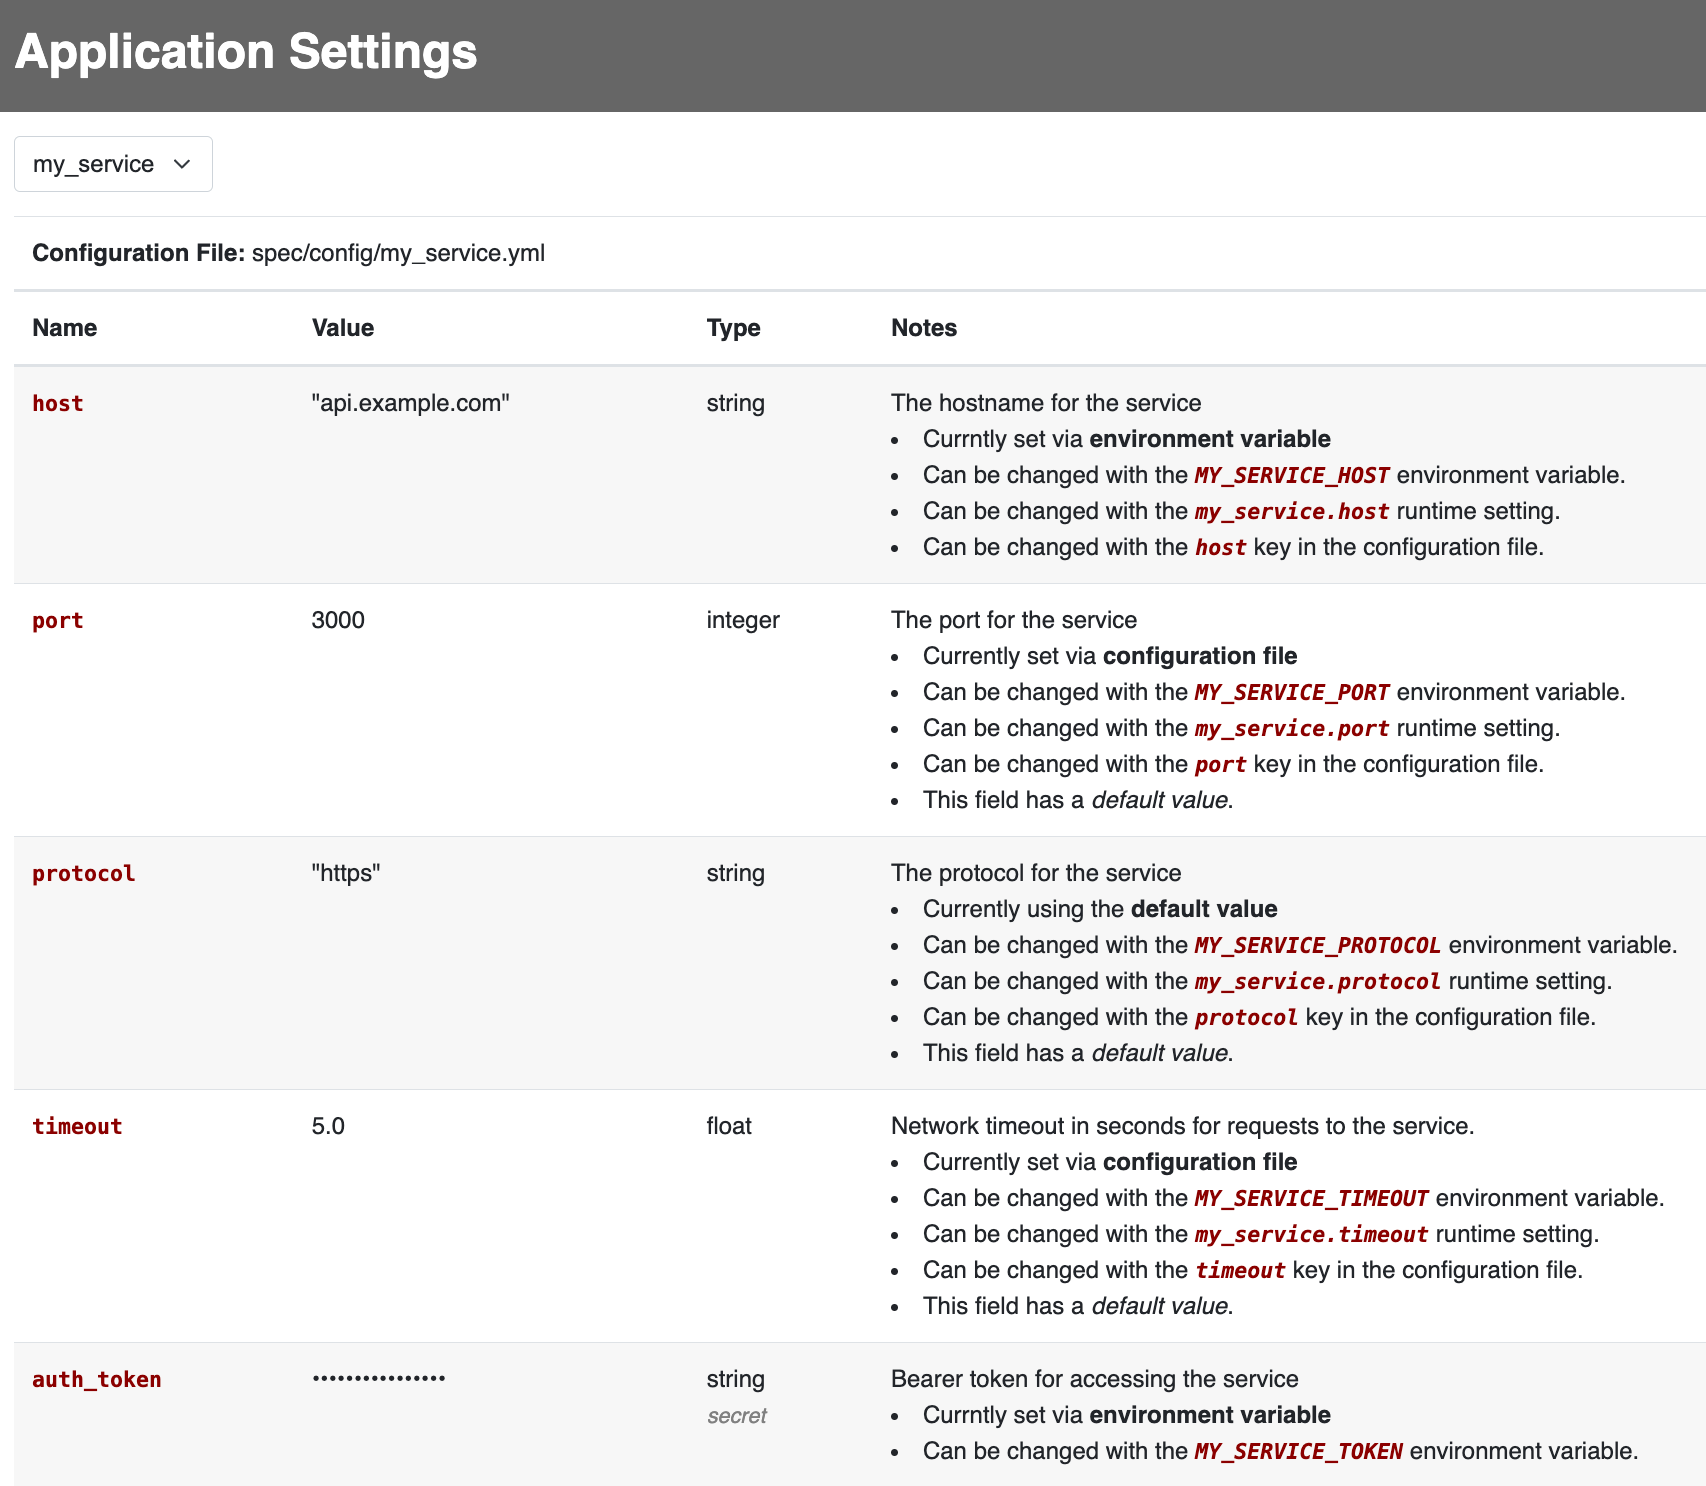
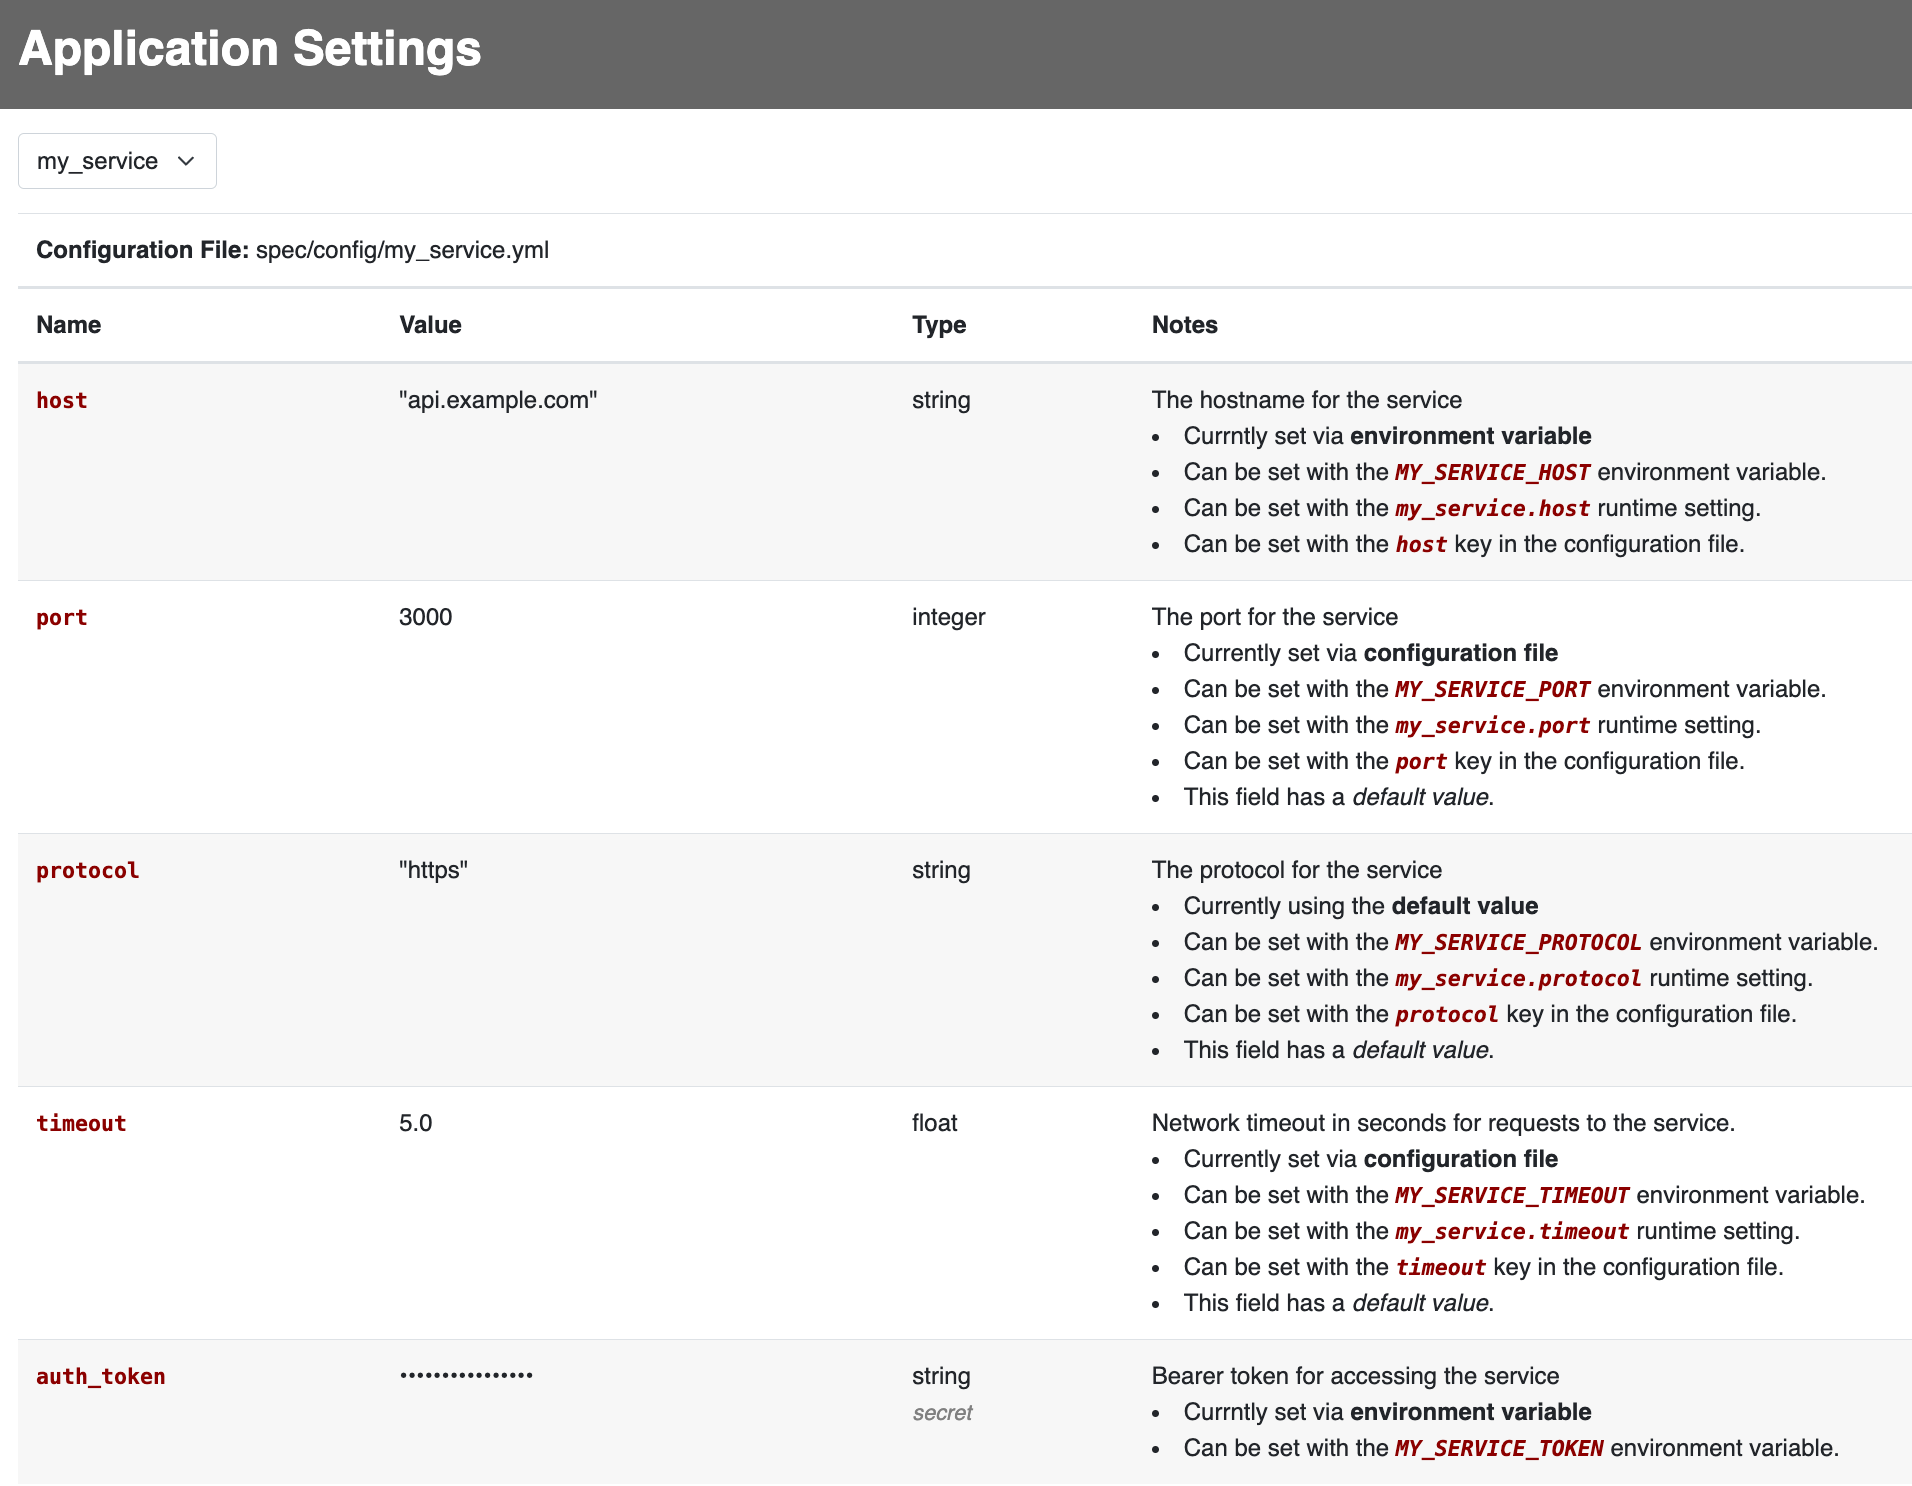
ui tweaks

diff --git a/lib/ultra_settings/configuration_view.rb b/lib/ultra_settings/configuration_view.rb
@@ -66,7 +66,7 @@ module UltraSettings
       elsif secret
         "Secret value"
       else
-        "Current value: #{display_value(value)}"
+        "Value: #{display_value(value)}"
       end
       "<dfn title=\"#{html_escape(title)}\">#{html_escape(label)}</dfn>"
     end
